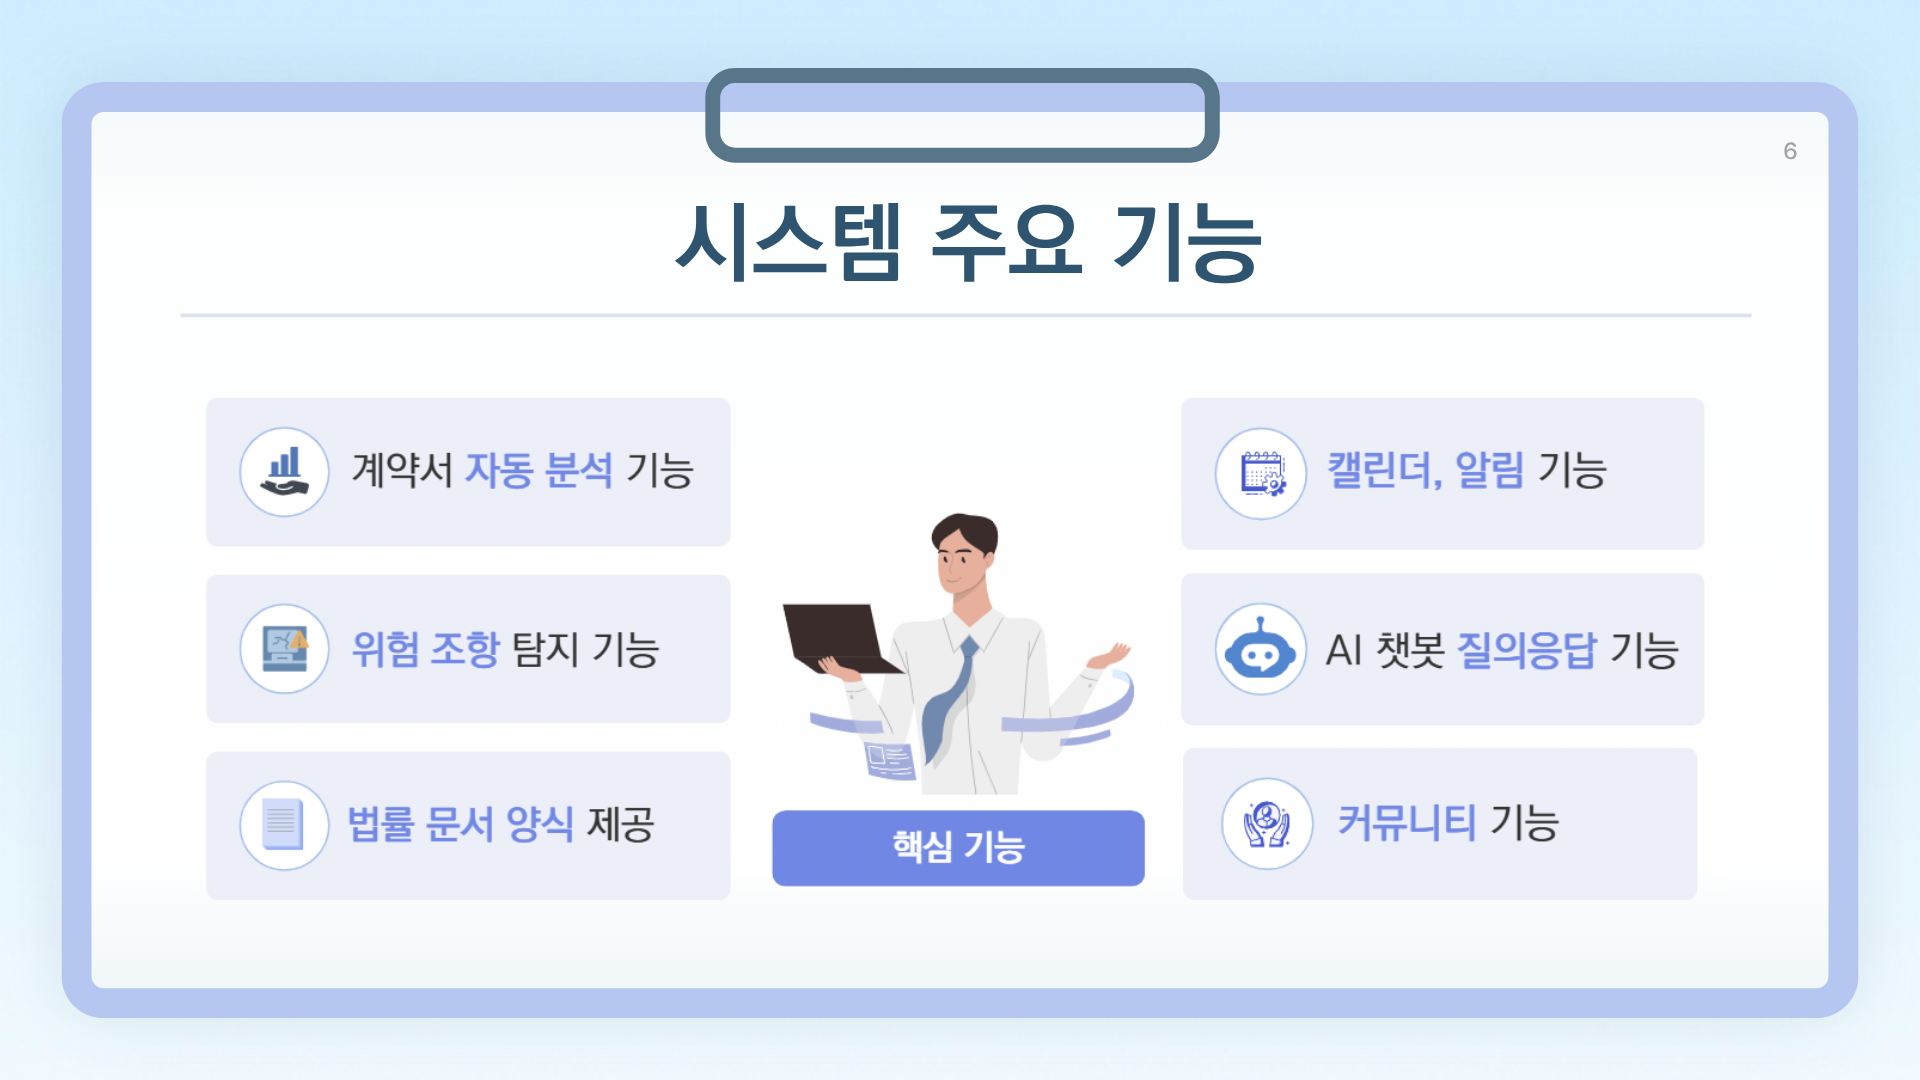
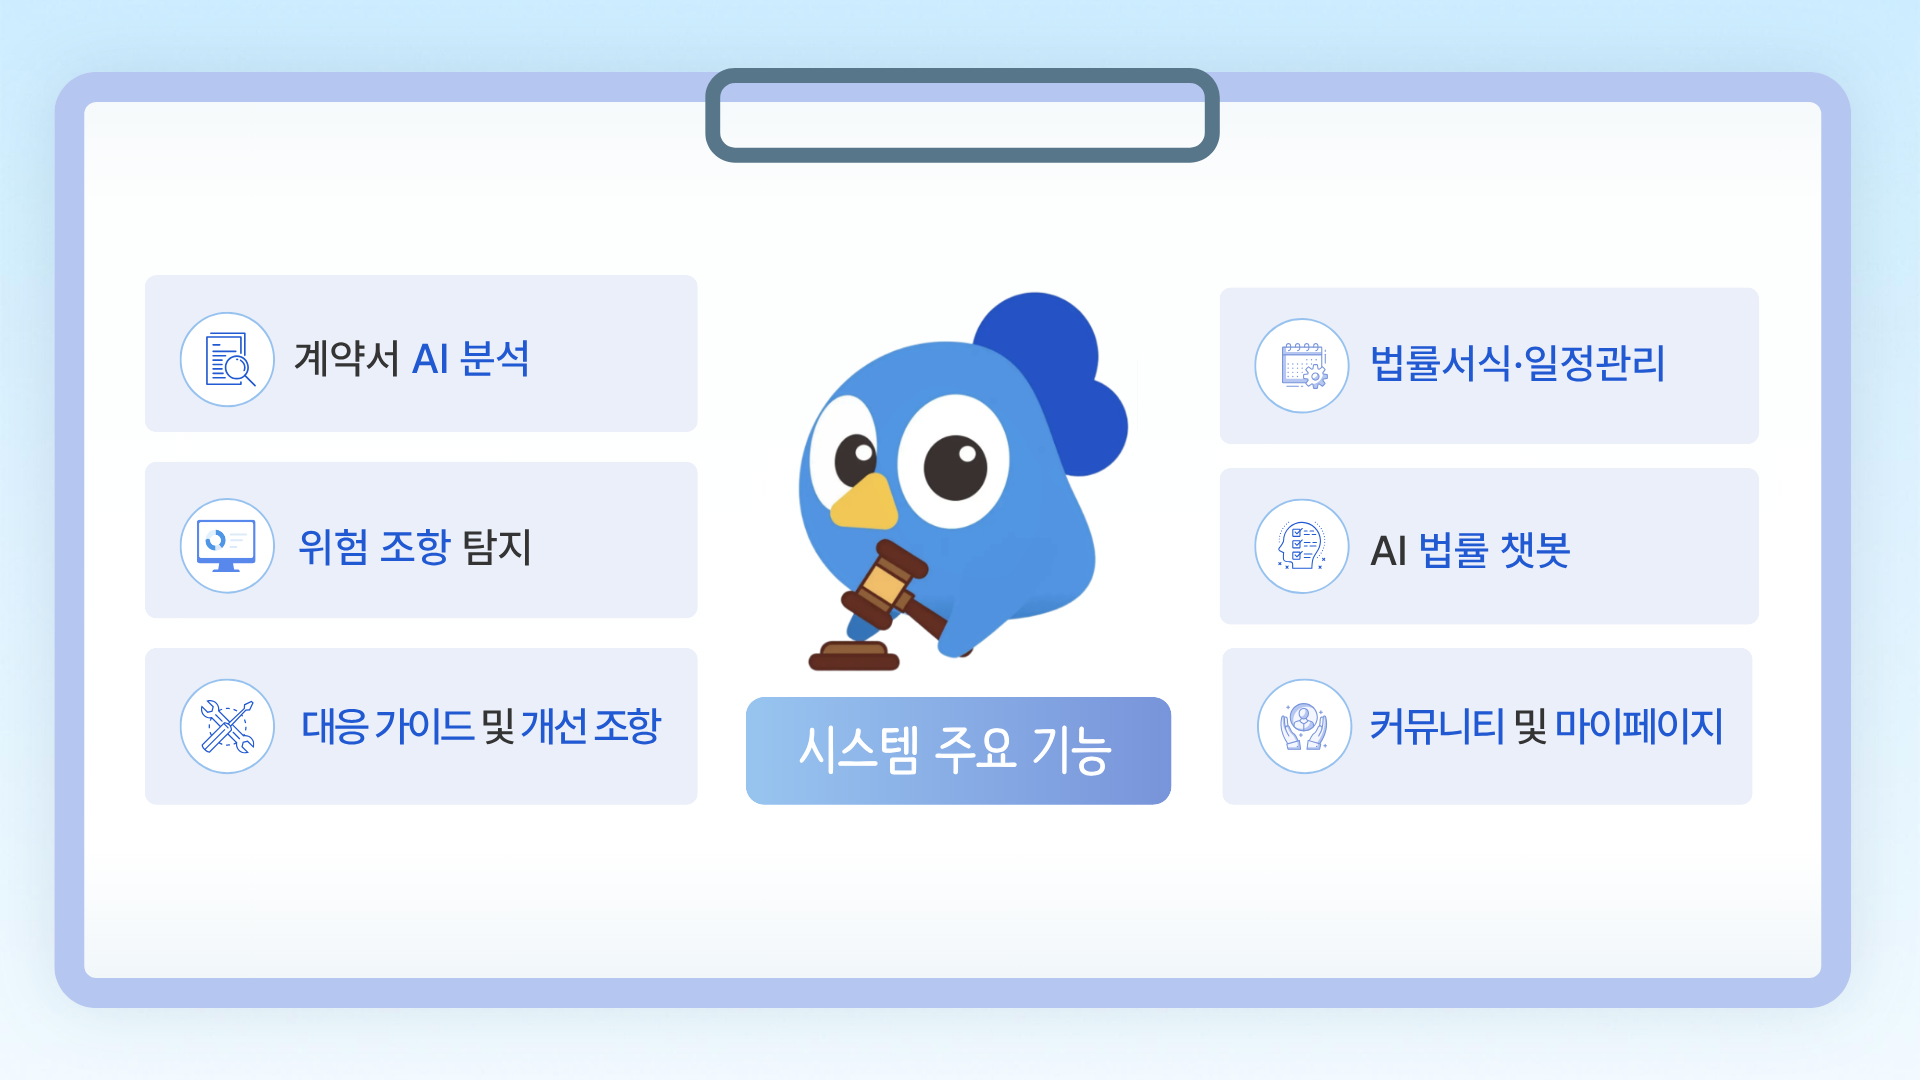
docs: README 로컬 작업 저장

diff --git a/README.md b/README.md
@@ -1,5 +1,5 @@
 <p align="center">
-  <img src="./docs/readme/Rm_main.png" width="100%" alt="AI 법률닥터">
+  <img src="./docs/readme/Rm_main_3.png" width="100%" alt="AI 법률닥터">
 </p>
 
 **AI 법률닥터**는 부동산 계약서를 분석하여 사용자가 놓치기 쉬운 위험 조항을 확인하고,
@@ -28,11 +28,13 @@ AI 법률 챗봇, 커뮤니티, 법률서식, 일정관리 등 계약 전후에 
 
 AI 법률닥터의 주요 기능과 실제 서비스 흐름을 시연영상에서 확인할 수 있습니다.
 
-<p align="center">
-  <a href="https://aidoc.kro.kr">
-    <b>🌐 AI 법률닥터 서비스 바로가기</b>
-  </a>
-</p>
-
 <!-- 아래 URL은 GitHub에 영상을 업로드한 뒤 생성되는 실제 영상 URL로 교체 -->
 https://github.com/user-attachments/assets/여기에-영상-ID
+
+## ▪ 서비스 바로가기
+## ▪ 서비스 바로가기
+
+> 👉 [AI 법률 닥터 서비스 바로가기](https://aidoc.kro.kr)
+**사이트 서버가 안열려있는 상태
+
+---
